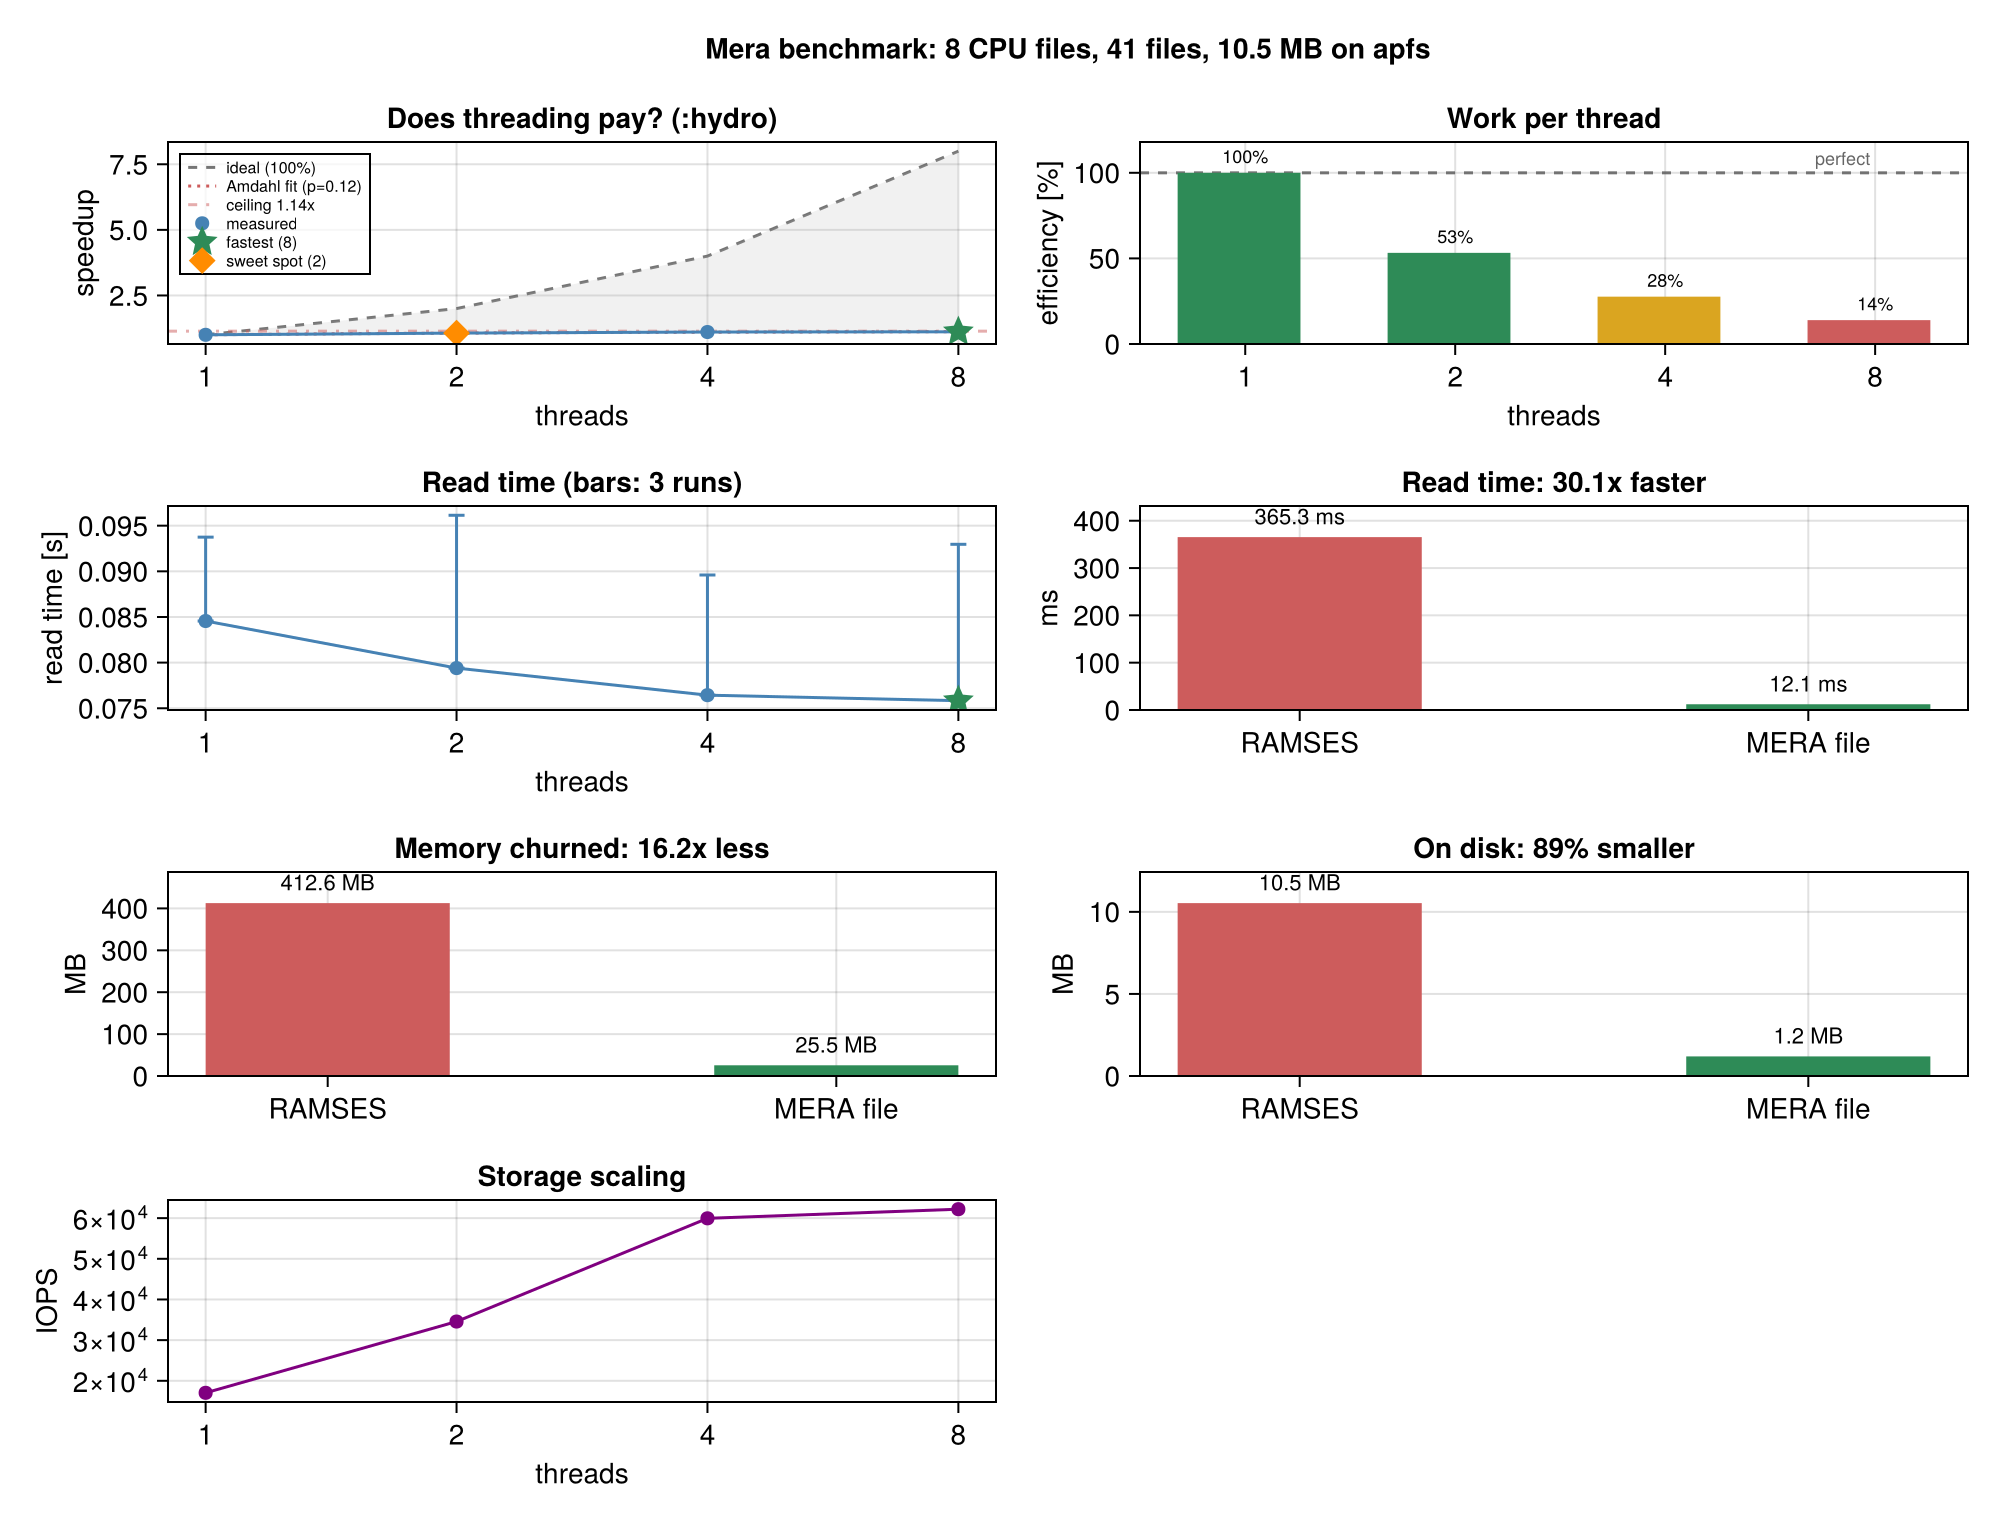
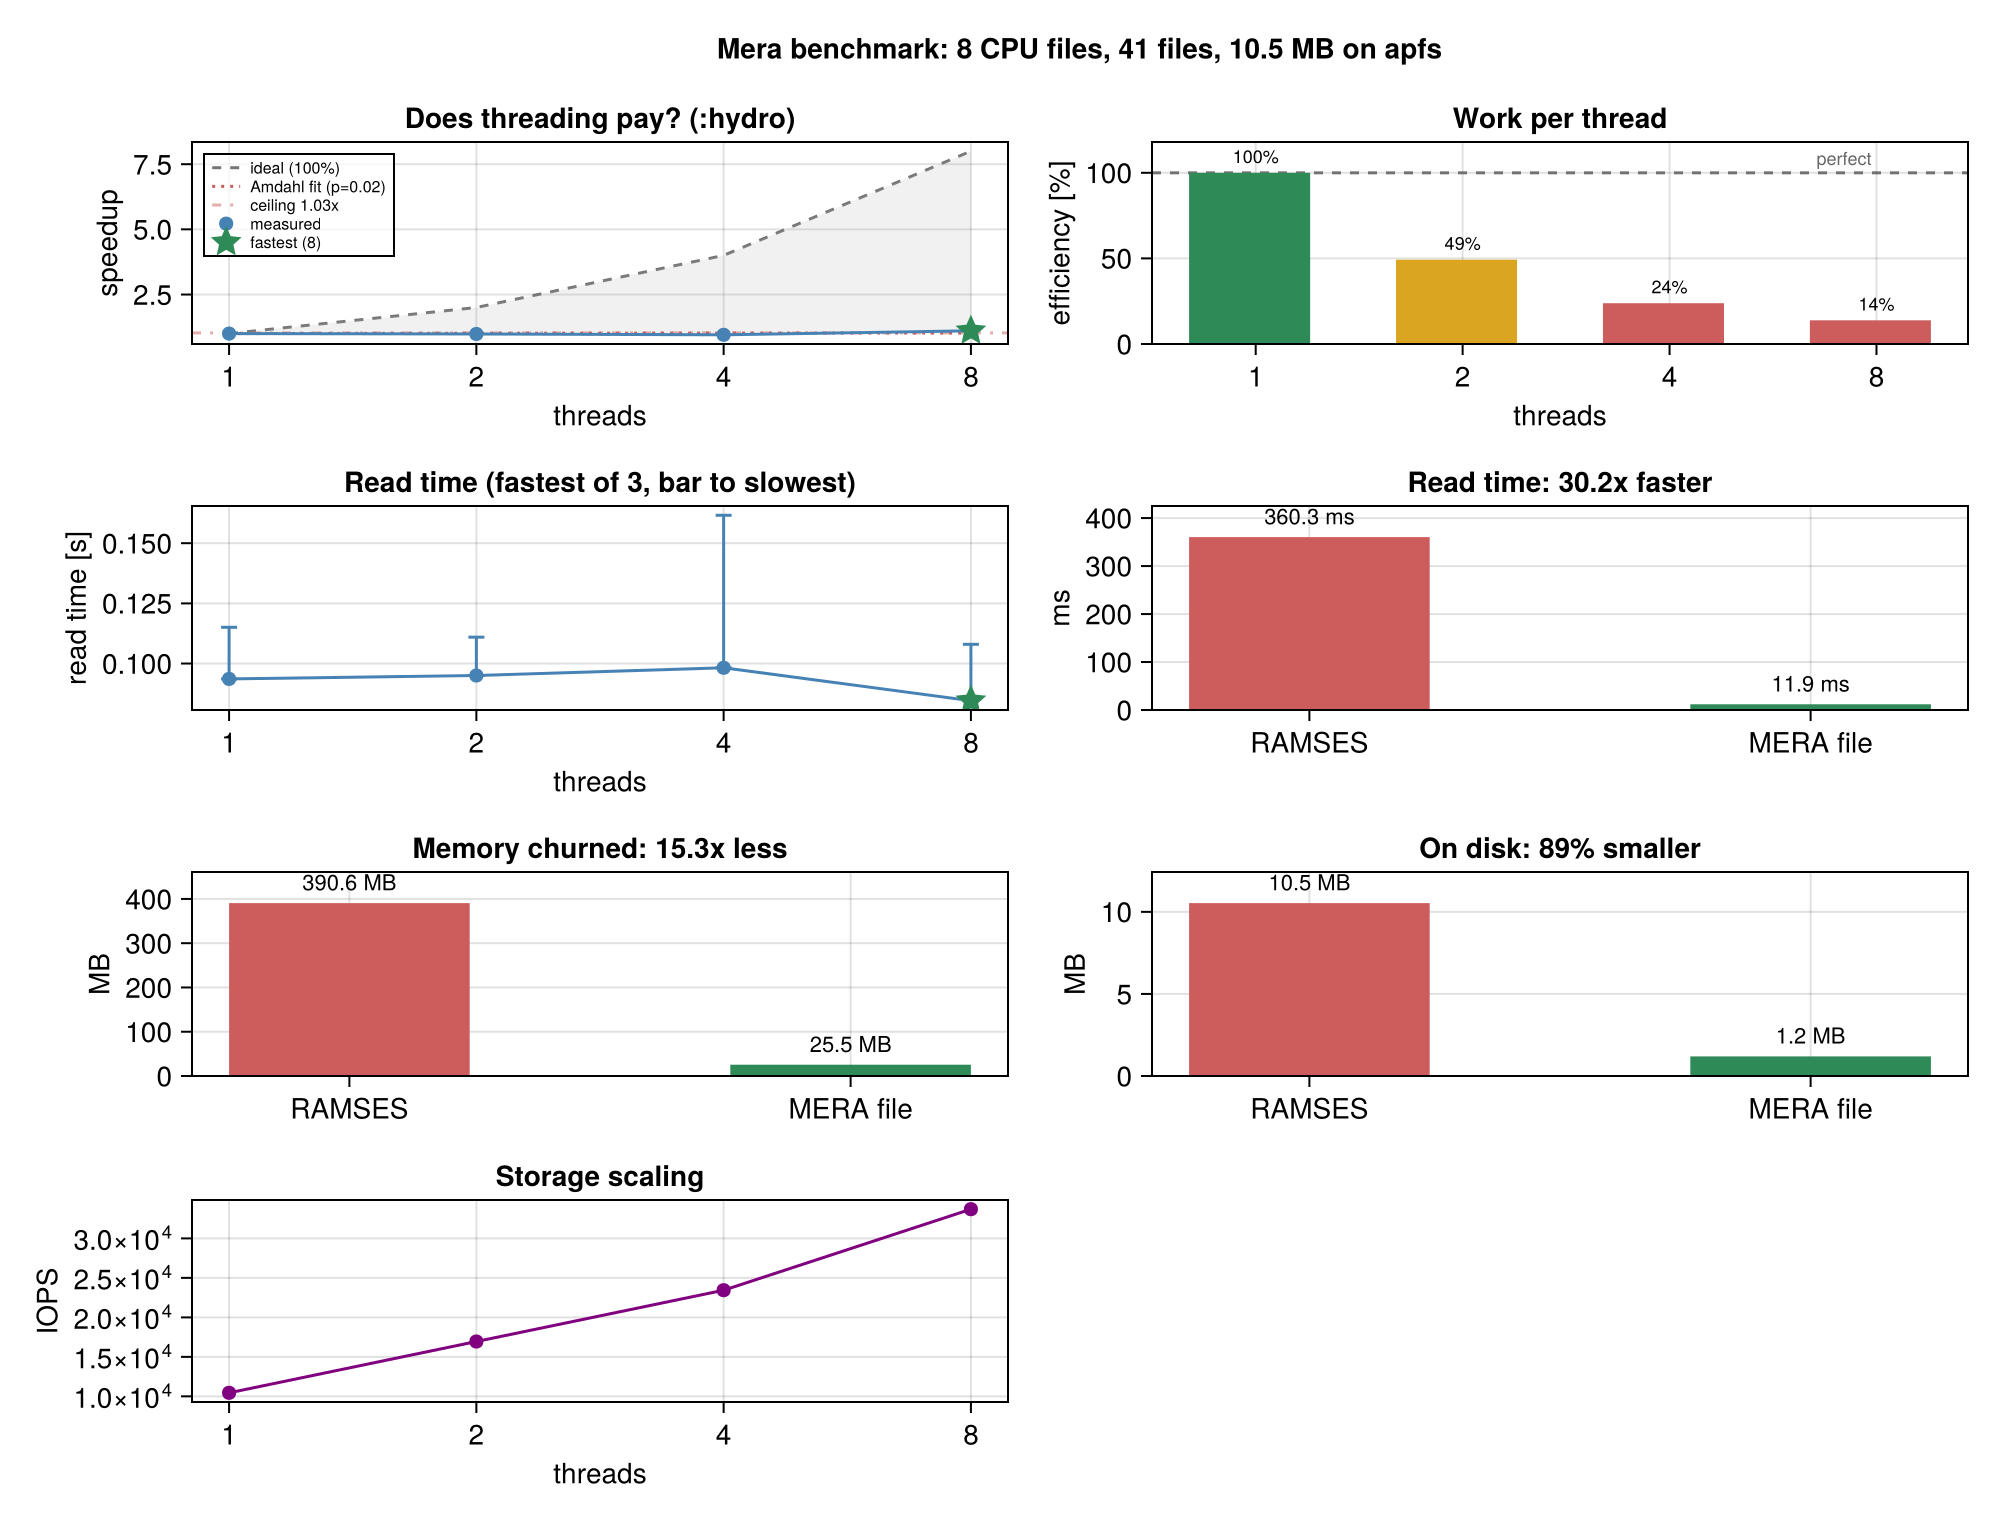
fix(plot): say the read-time bar is one-sided by construction
- the marker is the minimum, the estimate reported everywhere else, so the bar can only rise from it
- it read as a broken asymmetric error bar; the title is now 'fastest of N, bar to slowest'
- panel guide in the docs says the same, and what a tall bar actually means

diff --git a/docs/src/benchmarks/run_your_own.md b/docs/src/benchmarks/run_your_own.md
@@ -50,7 +50,7 @@ Panel by panel, and only the stages that ran appear:
 |---|---|---|
 | **Does threading pay?** | measured speedup against the dashed diagonal of perfect scaling, with the shaded gap between them | how much of each added thread becomes speed; the dotted Amdahl fit and its ceiling say how much is left to gain at all |
 | **Work per thread** | efficiency, speedup divided by thread count, against a 100% line | where added threads stop earning their core; green above 50%, red below 25% |
-| **Read time** | time against thread count, bars spanning the repeats | the spread: wide bars mean a busy machine and numbers you should not trust |
+| **Read time** | time against thread count. The marker is the **fastest** run, the bar reaches the **slowest**, so it is one-sided by construction rather than an asymmetric error bar | how tall the bars are: a wide spread means a busy machine and numbers you should not trust |
 | **Read time RAMSES vs MERA** | the same data read both ways | the ratio in the title |
 | **Memory churned** | bytes allocated by each path | both end holding the same data, so this is the cost of getting there |
 | **On disk** | size of the RAMSES files against the MERA file | mostly leaf-cell storage rather than compression, see [Performance](performance.md) |
